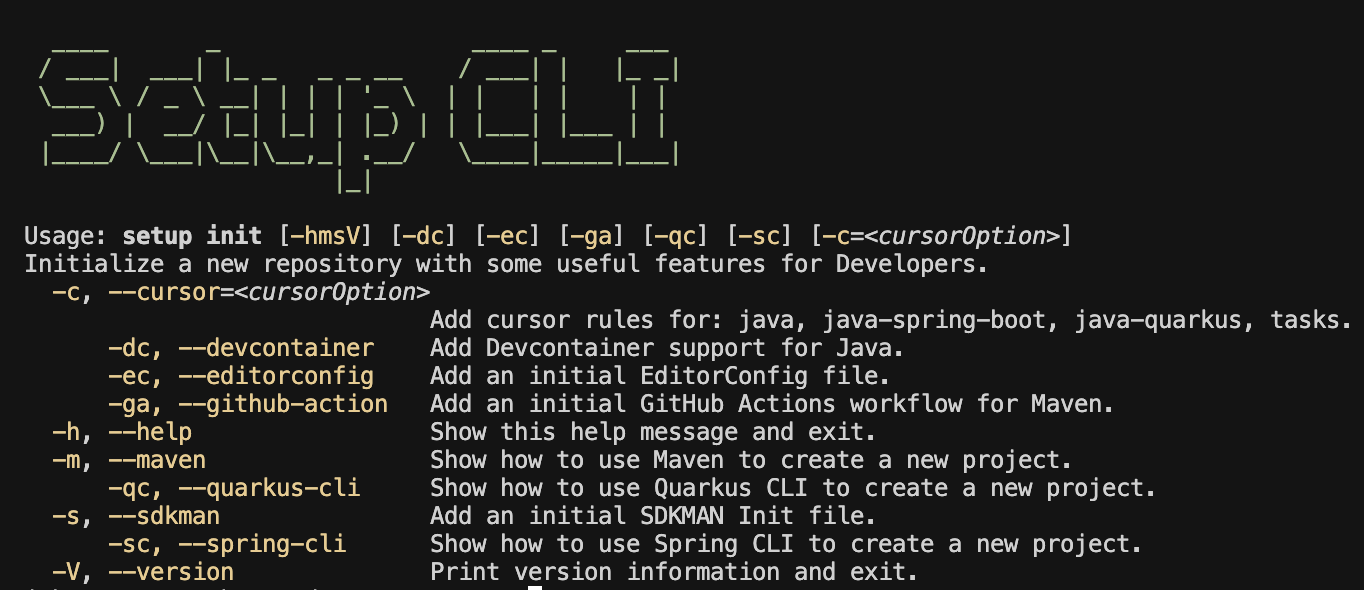
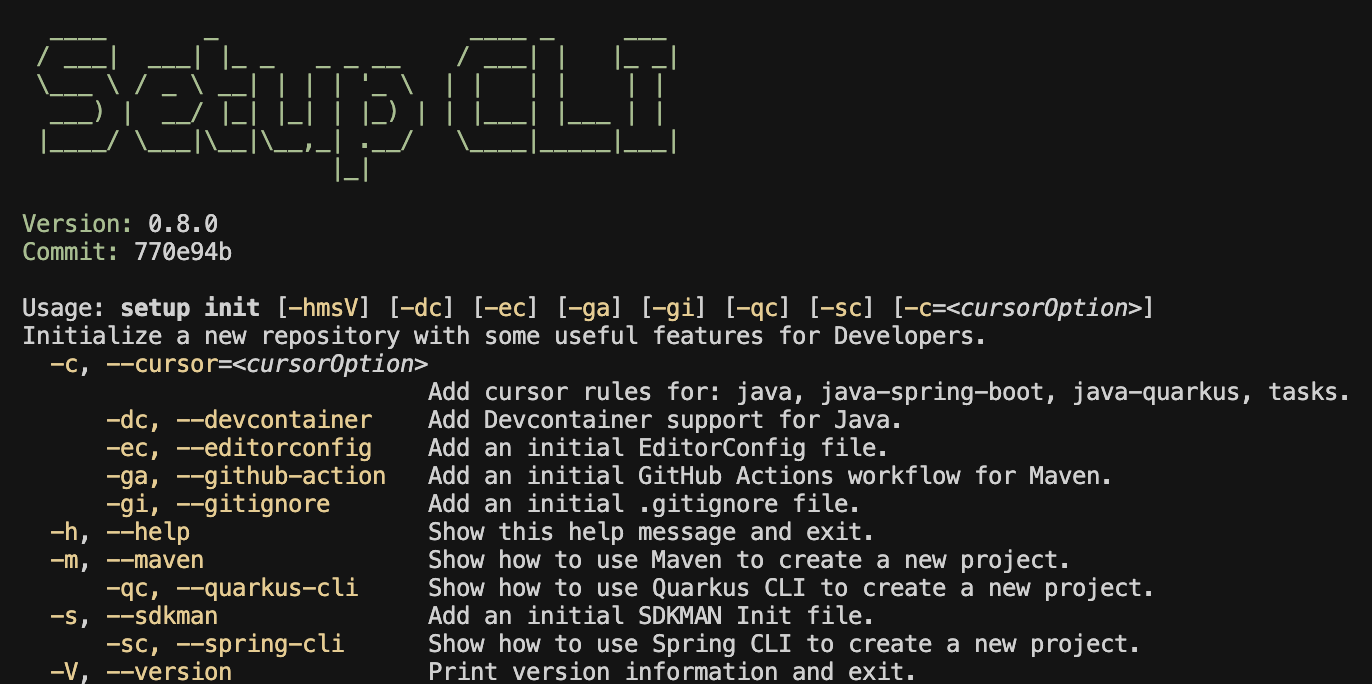
Updating docs

Changed region(s): [[0.0, 0.2746, 0.9853, 1.0], [0.0308, 0.0305, 0.4927, 0.3356], [0.3387, 0.2746, 0.4927, 0.3051]]

diff --git a/README.md b/README.md
@@ -51,6 +51,7 @@ java -jar ./target/setup-0.8.0.jar init --quarkus-cli
 java -jar ./target/setup-0.8.0.jar init --github-action
 java -jar ./target/setup-0.8.0.jar init --editorconfig
 java -jar ./target/setup-0.8.0.jar init --sdkman
+java -jar ./target/setup-0.8.0.jar init --gitignore
 jar tf ./target/setup-0.8.0.jar
 ```
 

diff --git a/CHANGELOG.md b/CHANGELOG.md
@@ -13,6 +13,7 @@ and this project adheres to [Semantic Versioning](https://semver.org/spec/v2.0.0
 - Added support for JSpecify
 - Added flatten-maven-plugin in the build
 - Added git-commit-id-plugin in the build
+- Added Version & Commit in Banner
 
 ### Changed
 
